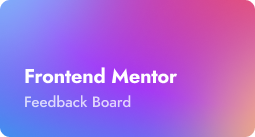
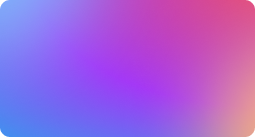
front end imag and text updated

Changed region(s): [[0.0824, 0.6715, 0.5216, 0.7883], [0.0824, 0.4672, 0.4118, 0.6131], [0.4392, 0.4964, 0.7137, 0.6131]]

diff --git a/src/app/components/SideBar/front-mentor/front-mentor.component.html b/src/app/components/SideBar/front-mentor/front-mentor.component.html
@@ -1,10 +1,14 @@
 <div class="card pt-12  absolute h-151 top-0 left-24">
-  <div class="">
+  <div class="leading-21">
+    <div>
+      <p class="absolute pl-6 mt-14 pb-3 text-white text-x font-black">{{Frontend}}</p>
+      <p class="absolute pl-6 mt-20 left-0 pb-3 text-white text-sm font-normal">{{FeedbackBoard}}</p>
+    </div>
+
     <img src="assets/fe.png" alt="" srcset="" class="w-">
   </div>
 
   @for (cardOne of cardOne; track cardOne.all) {
-
 
 <div class="card pt-0 relative   h-44 top-5 left-450 bg-white rounded-lg shadow-sm p-6 mb-10  ">
 
@@ -45,27 +49,29 @@
 
 <div class="card pt-0 relative  h-44 top-0 left-450 bg-white rounded-lg shadow-sm p-6 mb-10 flex space-x-5">
 
-  <div class="space-x-14 pt-5 ">
-      <div class="card pt-0 absolute grid  h-7  text-black w-max   ">
-    <h3 class="font-bold text-gray-700">Roadmap</h3>
-    <ul>
-      <li class="text-orange-400 list-disc ml-4 mt-4 list"  >  Planned</li>
-      <li class="text-violet-600 list-disc ml-4 mt-1 list"  >  In-Progress</li>
-      <li class="text-blue-500 list-disc ml-4 mt-1 list "  >  Live</li>
 
-    </ul>
-  </div>
-      <div class="card pt-0 absolute grid  h-7  text-black w-max left-36 ">
-    <h3 class="font-medium text-blue-500  underline ml-0">view</h3>
-    <ul>
-      <p class=" list-disc ml-4 mt-4 font-bold">  2</p>
-      <p class="list-disc ml-4 mt-1 font-bold">  3</p>
-      <p class=" list-disc ml-4 mt-1 font-bold">  1</p>
+    <div class="space-x-14 pt-5 ">
+        <div class="card pt-0 absolute grid  h-7  text-black w-max   ">
+      <h3 class="font-bold text-gray-700">{{Roadmap}}</h3>
+      <ul>
+        <li class="text-orange-400 list-disc ml-4 mt-4 list"  > {{Planned}}</li>
+        <li class="text-violet-600 list-disc ml-4 mt-1 list"  >{{InProgress}}</li>
+        <li class="text-blue-500 list-disc ml-4 mt-1 list "  >{{live}}</li>
 
-    </ul>
-  </div>
+      </ul>
+    </div>
+        <div class="card pt-0 absolute grid  h-7  text-black w-max left-36 ">
+      <h3 class="font-medium text-blue-500  underline ml-0">{{view}}</h3>
+      <ul>
+        <p class=" list-disc ml-4 mt-4 font-bold">  {{two}}</p>
+        <p class="list-disc ml-4 mt-1 font-bold">  {{three}}</p>
+        <p class=" list-disc ml-4 mt-1 font-bold">  {{one}}</p>
 
-  </div>
+      </ul>
+    </div>
+
+    </div>
+
 
 
   <div class="card pt-0 relative flex space-x-24  h-7  text-black w-5 top-5 left-0  ">

diff --git a/src/app/components/SideBar/front-mentor/front-mentor.component.ts b/src/app/components/SideBar/front-mentor/front-mentor.component.ts
@@ -9,7 +9,11 @@ import { Component } from '@angular/core';
 })
 export class FrontMentorComponent {
 
+  Frontend: string = "Frontend Mentor"
+  FeedbackBoard: string = "Feedback Board"
+
 cardOne: any[] = [
+
 
 {
   all:"All",
@@ -20,18 +24,24 @@ cardOne: any[] = [
   feature: "Feature",
 
 },
-// {
-//   all:"All",
-//   ui: "UI",
-//   ux: "UX",
-//   enhance: "Enhancement",
-//   bug: "Bug",
-//   feature: "Feature",
-
-// },
 
 
 ]
+
+
+    Roadmap: string = "Roadmap"
+    Planned: string =  "Planned"
+    InProgress: string = "In-Progress"
+    live: string = "Live"
+    view: string = "view"
+    feature: string = "Feature"
+
+    two: number = 2
+    three: number =  3
+    one: number =  1
+
+
+
 
 
 }

diff --git a/tailwind.config.js b/tailwind.config.js
@@ -1,3 +1,5 @@
+const { sign } = require('crypto')
+
 /** @type {import('tailwindcss').Config} */
 module.exports = {
   content: [
@@ -5,6 +7,30 @@ module.exports = {
   ],
   theme: {
     extend: {},
+
+   fontSize:{
+    'sm': '15px',
+    'x': '20px',
+
+   },
+
+   fontWeight:{
+      'hairline': 100,
+      'thin': 200,
+      'light': 300,
+      'normal': 400,
+      'medium': 500,
+      'semibold': 600,
+      'bold': 700,
+      'extrabold': 800,
+      'black': 900,
+   },
+
+   lineHeight: {
+    '21': '21.68px',
+  },
+
+
   },
   plugins: [],
 }
